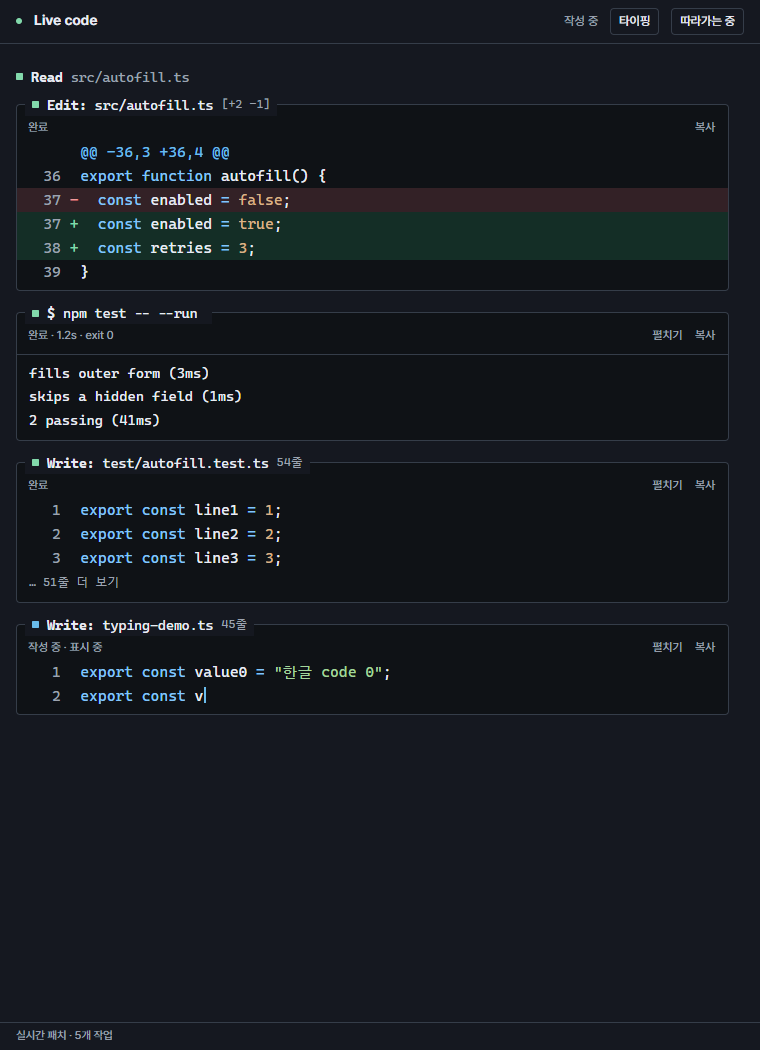
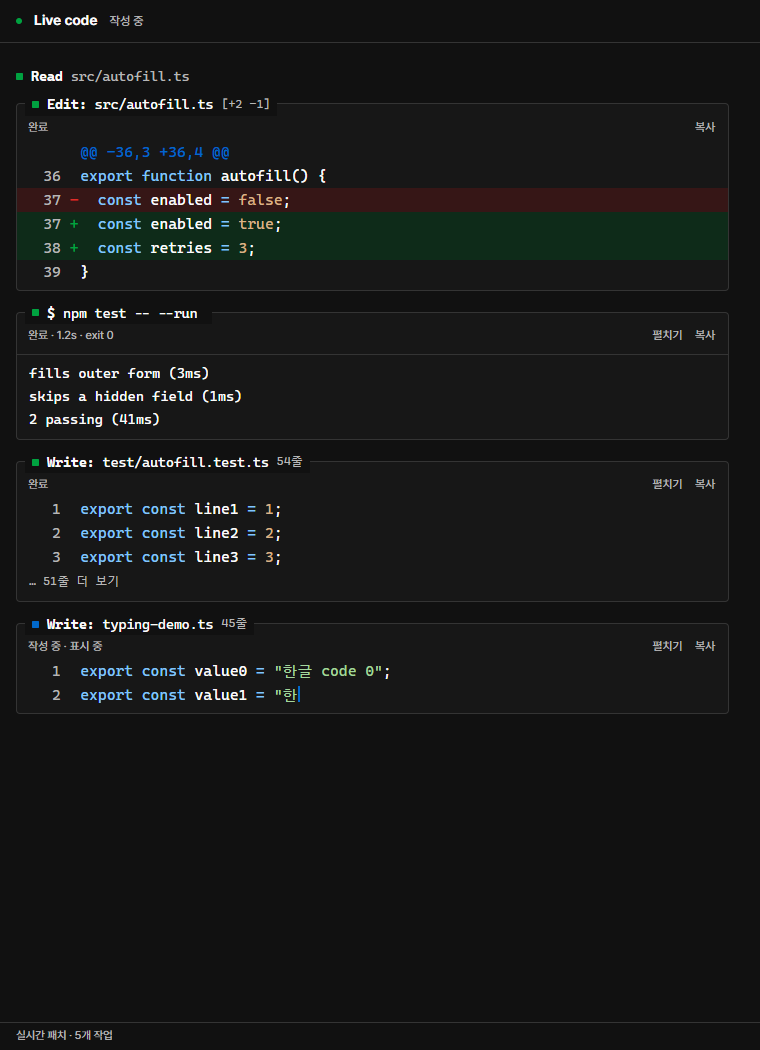
Follow Codex theme colors and simplify viewer controls

diff --git a/codex-panel/native/view.ts b/codex-panel/native/view.ts
@@ -53,22 +53,20 @@ export function mountNativeView(element:HTMLElement,feed:Pick<NativeCodeFeed,'sn
   const style=node('style');style.textContent=nativeViewCss;
   const viewer=node('section','viewer');viewer.setAttribute('aria-label','Live code');
   const bar=node('header','bar'),dot=node('span','connection-dot'),heading=node('span','heading','Live code'),phase=node('span','phase');
-  const follow=node('button','follow','따라가기');follow.title='최신 작업을 따라 스크롤';follow.type='button';follow.setAttribute('aria-pressed','true');
-  const motion=matchMedia('(prefers-reduced-motion: reduce)');
-  let typingPreference='auto';try{typingPreference=localStorage.getItem('live-code:typing')??'auto';}catch{}
-  const typingOn=()=>typingPreference==='on'||(typingPreference==='auto'&&!motion.matches);
-  const typingButton=node('button','follow typing-toggle','타이핑');typingButton.type='button';typingButton.title='수신 코드 타이핑 효과';
-  bar.append(dot,heading,phase,typingButton,follow);
+  bar.append(dot,heading,phase);
+  const jump=node('button','return-latest');jump.type='button';jump.setAttribute('aria-label','맨 아래로');jump.hidden=true;
+  const dots=node('span','jump-dots','…'),arrow=node('span','jump-arrow','↓'),tip=node('span','jump-label','맨 아래로');
+  dots.setAttribute('aria-hidden','true');arrow.setAttribute('aria-hidden','true');tip.setAttribute('aria-hidden','true');jump.append(dots,arrow,tip);
   const timeline=node('main','timeline');timeline.setAttribute('aria-label','작업 흐름');timeline.setAttribute('role','log');timeline.setAttribute('aria-live','off');
   const empty=node('p','empty','코드 작업을 기다리는 중'),history=node('div','history');
   const planWrap=node('section','plan-wrap'),planTitle=node('div','plan-title','TODO'),planCount=node('span','plan-count'),plan=node('ol','plan');
   plan.setAttribute('aria-label','작업 진행');planTitle.append(planCount);planWrap.append(planTitle,plan);planWrap.hidden=true;
   const footer=node('footer','footer'),source=node('div','source');footer.append(source);
-  timeline.append(empty,history,planWrap);viewer.append(bar,timeline,footer);shadow.append(style,viewer);
+  timeline.append(empty,history,planWrap);viewer.append(bar,timeline,footer,jump);shadow.append(style,viewer);
   let snapshot=feed.snapshot,following=true,disposed=false,scheduled=false,lastTurn:string|null=null,hydrating=true,frame:ReturnType<typeof setTimeout>|undefined;
-  const cards=new Map<string,Card>(),expanded=new Set<string>();
+  const cards=new Map<string,Card>(),expanded=new Set<string>();let cardSequence=0;
   const key=(call:NativeCall)=>call.turnId+':'+call.id;
-  function updateFollow(){follow.setAttribute('aria-pressed',String(following));follow.textContent=following?'따라가는 중':'최신으로';}
+  function updateFollow(){jump.hidden=following||snapshot.calls.length===0;}
   function makeCard(id:string):Card {
     const article=node('article','call');article.dataset.callKey=id;
     const head=node('header','call-head'),mark=node('span','state-mark'),label=node('strong','call-label'),title=node('span','call-title'),count=node('span','call-count');
@@ -76,11 +74,13 @@ export function mountNativeView(element:HTMLElement,feed:Pick<NativeCodeFeed,'sn
     const tools=node('div','call-tools'),callPhase=node('span','call-phase');
     const toggle=node('button','small-button','펼치기'),copy=node('button','small-button','복사');toggle.type=copy.type='button';toggle.setAttribute('aria-expanded','false');
     tools.append(callPhase,toggle,copy);
-    const earlier=node('div','overflow'),code=node('div','cm-content source-code'),more=node('div','overflow'),progress=node('div','progress'),output=node('pre','output');
+    const earlier=node('button','overflow earlier'),code=node('div','cm-content source-code'),more=node('button','overflow more'),progress=node('div','progress'),output=node('pre','output');
+    earlier.type=more.type='button';code.id='live-code-source-'+(++cardSequence);for(const control of [earlier,more,toggle])control.setAttribute('aria-controls',code.id);
     output.setAttribute('aria-label','실행 출력');article.append(head,tools,earlier,code,more,progress,output);
     const card:Card={element:article,heading:head,title,label,count,phase:callPhase,code,output,progress,earlier,more,expand:toggle,call:null,expanded:false,typing:new TypingReveal(),rows:[],paint:'',holdUntil:0};
-    toggle.addEventListener('click',()=>{if(expanded.has(id))expanded.delete(id);else expanded.add(id);card.call=null;render();});
-    const toggleLine=()=>{if(article.dataset.kind==='line'){if(expanded.has(id))expanded.delete(id);else expanded.add(id);card.call=null;render();}};
+    const toggleExpanded=()=>{const opening=!expanded.has(id);if(opening){expanded.add(id);following=false;}else expanded.delete(id);card.call=null;render();};
+    toggle.addEventListener('click',toggleExpanded);earlier.addEventListener('click',toggleExpanded);more.addEventListener('click',toggleExpanded);
+    const toggleLine=()=>{if(article.dataset.kind==='line')toggleExpanded();};
     head.addEventListener('click',toggleLine);head.addEventListener('keydown',event=>{if(event.key==='Enter'||event.key===' '){event.preventDefault();toggleLine();}});
     copy.addEventListener('click',()=>{if(card.call)void navigator.clipboard.writeText(card.call.input).catch(()=>{});});
     return card;
@@ -91,7 +91,7 @@ export function mountNativeView(element:HTMLElement,feed:Pick<NativeCodeFeed,'sn
   function updateCard(card:Card,call:NativeCall,full:boolean) {
     const now=performance.now(),same=unchanged(card,call,full),shown=presentCall(call,full),parser=parserFor(call);
     const code=shown.kind==='write'||shown.kind==='edit',terminal=call.status!=='writing'&&call.status!=='running';
-    const instant=!typingOn()||document.hidden||full||!code||(hydrating&&terminal)||call.status==='failed'||call.status==='interrupted';
+    const instant=document.hidden||full||!code||(hydrating&&terminal)||call.status==='failed'||call.status==='interrupted';
     if(!same){
       card.rows=presentCall(call,true).lines;
       card.typing.target(card.rows.map(row=>row.text).join('\n'),now,{instant,terminal});
@@ -116,7 +116,8 @@ export function mountNativeView(element:HTMLElement,feed:Pick<NativeCodeFeed,'sn
     card.expand.hidden=!shown.expandable&&!full;card.expand.textContent=full?'접기':'펼치기';card.expand.setAttribute('aria-expanded',String(full));
     card.earlier.hidden=shown.earlier===0;card.earlier.textContent='… 앞 '+shown.earlier+'줄';
     card.more.hidden=shown.more===0;card.more.textContent='… '+shown.more+'줄 더 보기';
-        card.code.hidden=shown.kind==='line'&&!full;
+    card.earlier.setAttribute('aria-expanded',String(full));card.more.setAttribute('aria-expanded',String(full));
+    card.code.hidden=shown.kind==='line'&&!full;
     card.code.replaceChildren(...shown.lines.map(line=>lineNode(line,parser)));
     if(caret){const last=card.code.querySelector('.code-line:last-child .code-text');last?.append(node('span','typing-caret'));}
     card.progress.hidden=!call.progress;card.progress.textContent=call.progress;
@@ -137,21 +138,18 @@ export function mountNativeView(element:HTMLElement,feed:Pick<NativeCodeFeed,'sn
     planWrap.hidden=snapshot.plan.length===0;planCount.textContent=' · '+snapshot.plan.filter(step=>step.status==='completed').length+'/'+snapshot.plan.length;
     plan.replaceChildren(...snapshot.plan.map(step=>{const li=node('li');li.dataset.status=step.status;li.append(node('span','todo-mark'),document.createTextNode(step.step));return li;}));
     element.dataset.owner=snapshot.hostId+':'+snapshot.threadId;element.dataset.callCount=String(snapshot.calls.length);element.dataset.revision=String(snapshot.revision);
-    typingButton.setAttribute('aria-pressed',String(typingOn()));
-    typingButton.title='수신 코드 타이핑 효과'+(typingPreference==='auto'&&motion.matches?' · 동작 줄이기 적용 중':'');
-    element.dataset.renderer='reference-typing-1';
+    element.dataset.renderer='app-theme-1';
     updateFollow();if(following)timeline.scrollTop=timeline.scrollHeight;
     if(snapshot.threadId)hydrating=false;
     if(frame!==undefined){clearTimeout(frame);frame=undefined;}
     if(!document.hidden&&[...cards.values()].some(card=>card.typing.pending||card.holdUntil>performance.now()))frame=setTimeout(render,33);
   }
   const dispose=feed.subscribe(value=>{snapshot=value;if(!scheduled){scheduled=true;queueMicrotask(render);}});
-  follow.addEventListener('click',()=>{following=!following;if(following)timeline.scrollTop=timeline.scrollHeight;updateFollow();});
+  jump.addEventListener('click',()=>{following=true;timeline.scrollTop=timeline.scrollHeight;updateFollow();});
   timeline.addEventListener('wheel',event=>{if(event.deltaY<0){following=false;updateFollow();}},{passive:true});
   timeline.addEventListener('scroll',()=>{following=timeline.scrollHeight-timeline.scrollTop-timeline.clientHeight<28;updateFollow();},{passive:true});
   const refreshMotion=()=>{for(const card of cards.values())card.call=null;render();};
-  typingButton.addEventListener('click',()=>{typingPreference=typingOn()?'off':'on';try{localStorage.setItem('live-code:typing',typingPreference);}catch{}refreshMotion();});
-  motion.addEventListener('change',refreshMotion);document.addEventListener('visibilitychange',refreshMotion);
+  document.addEventListener('visibilitychange',refreshMotion);
   render();
-  return()=>{disposed=true;dispose();if(frame!==undefined)clearTimeout(frame);motion.removeEventListener('change',refreshMotion);document.removeEventListener('visibilitychange',refreshMotion);cards.clear();shadow.replaceChildren();};
+  return()=>{disposed=true;dispose();if(frame!==undefined)clearTimeout(frame);document.removeEventListener('visibilitychange',refreshMotion);cards.clear();shadow.replaceChildren();};
 }

diff --git a/codex-panel/native/view-styles.ts b/codex-panel/native/view-styles.ts
@@ -3,10 +3,10 @@ export const nativeViewCss = `
 :host{--page:#f8f8f8;--card:#fff;--ink:#333841;--muted:#626b77;--rule:#c9ced5;--accent:#326f96;--green:#287452;--red:#b34449;--add-bg:#e5f3e9;--del-bg:#f9e8e8;--mono:"Cascadia Code","D2Coding","Cascadia Mono",ui-monospace,monospace;--sans:"Pretendard","Segoe UI",system-ui,sans-serif;display:flex;width:100%;height:100%;min-height:0;color:var(--ink);font:14px/1.55 var(--sans);text-rendering:optimizeLegibility;-webkit-font-smoothing:antialiased}
 @media(prefers-color-scheme:dark){:host{--page:#151820;--card:#0f1216;--ink:#e8ecf4;--muted:#9ca3b0;--rule:#353d49;--accent:#6abcec;--green:#82d9ab;--red:#f19b9b;--add-bg:#142e26;--del-bg:#332126}}
 *{box-sizing:border-box}button{font:inherit;color:inherit;cursor:pointer}button:focus-visible{outline:2px solid var(--accent);outline-offset:2px}
-.viewer{display:flex;flex-direction:column;width:100%;height:100%;min-height:0;background:var(--page)}
+.viewer{position:relative;display:flex;flex-direction:column;width:100%;height:100%;min-height:0;background:var(--page)}
 .bar{display:flex;gap:12px;align-items:center;min-height:43px;flex-shrink:0;padding:8px 16px;border-bottom:1px solid var(--rule)}
-.heading{font-size:14px;font-weight:600;letter-spacing:.01em}.connection-dot{width:6px;height:6px;border-radius:50%;background:var(--green);flex-shrink:0}.phase{font-size:12px;color:var(--muted)}.bar .phase{margin-left:auto}
-.follow{border:1px solid var(--rule);border-radius:4px;padding:3px 8px;background:transparent;font-size:12px;color:var(--muted);white-space:nowrap}.follow[aria-pressed=true]{color:var(--ink)}
+.heading{font-size:14px;font-weight:600;letter-spacing:.01em}.connection-dot{width:6px;height:6px;border-radius:50%;background:var(--green);flex-shrink:0}.phase{font-size:12px;color:var(--muted)}.bar .phase{margin-left:0}
+.return-latest{position:absolute;bottom:42px;left:50%;transform:translateX(-50%);z-index:3;width:36px;height:26px;border:1px solid var(--rule);border-radius:14px;background:var(--card);color:var(--muted);box-shadow:0 2px 7px #0002;display:grid;place-items:center;font:20px/1 var(--sans)}.return-latest:hover,.return-latest:focus-visible{color:var(--ink)}.jump-arrow{display:none}.return-latest:is(:hover,:focus-visible) .jump-dots{display:none}.return-latest:is(:hover,:focus-visible) .jump-arrow{display:inline}.jump-label{position:absolute;bottom:calc(100% + 7px);left:50%;transform:translateX(-50%);border:1px solid var(--rule);border-radius:5px;background:var(--card);padding:4px 8px;white-space:nowrap;font:12px/1.4 var(--sans);opacity:0;pointer-events:none}.return-latest:is(:hover,:focus-visible) .jump-label{opacity:1}
 .timeline{flex:1;min-height:0;overflow:auto;padding:15px 16px 26px;scrollbar-gutter:stable;overscroll-behavior:contain}
 .empty{padding:30px 0;color:var(--muted);font-size:14px}
 .call{margin:16px 0 21px;border:1px solid var(--rule);border-radius:4px;background:var(--card);padding:0 0 6px}
@@ -27,7 +27,7 @@ export const nativeViewCss = `
 .typing-caret{display:inline-block;width:2px;height:1.1em;margin-left:1px;vertical-align:-.15em;background:var(--accent);animation:caret-blink .85s step-end infinite}@keyframes caret-blink{50%{opacity:0}}
 .code-text{margin:0;white-space:pre-wrap;overflow-wrap:anywhere;padding-right:10px;min-width:0;font:inherit;tab-size:2}
 .call[data-kind=shell] .code-line{grid-template-columns:2ch minmax(0,1fr)}.call[data-kind=shell] .line-number{display:none}.call[data-kind=shell] .line-sign{padding-left:9px;color:var(--accent)}
-.overflow{margin:2px 12px;color:var(--muted);font:12px/1.8 var(--mono)}
+.overflow{display:block;margin:2px 12px;padding:0;border:0;background:transparent;text-align:left;color:var(--muted);font:12px/1.8 var(--mono)}.overflow:hover{color:var(--ink);text-decoration:underline}
 .output{white-space:pre-wrap;overflow-wrap:anywhere;margin:6px 0 0;padding:7px 12px 2px;border-top:1px solid var(--rule);font:14px/1.65 var(--mono);color:var(--ink);max-width:100%}
 .progress{padding:3px 12px;color:var(--muted);font:12px/1.6 var(--sans)}
 .call[data-kind=line]{margin:7px 0;border:0;background:transparent;padding:0}.call[data-kind=line] .call-head{margin:0;padding:0;background:none;max-width:100%;font-size:13.5px;font-weight:400}.call[data-kind=line] .call-label{font-weight:650}.call[data-kind=line] .call-title{color:var(--muted)}
@@ -36,7 +36,7 @@ export const nativeViewCss = `
 .plan{list-style:none;padding:0;margin:7px 0 0 3px}.plan li{position:relative;padding:2px 0 2px 26px;border-left:1px solid var(--accent);min-height:25px}.plan li:last-child{border-left-color:transparent}.plan li:before{content:"";position:absolute;left:-1px;top:0;height:14px;width:13px;border-left:1px solid var(--accent);border-bottom:1px solid var(--accent)}
 .todo-mark{display:inline-block;width:7px;height:7px;border:1px solid var(--muted);margin-right:9px;vertical-align:1px}.plan li[data-status=completed]{color:var(--muted)}.plan li[data-status=completed] .todo-mark{border-color:var(--green);background:var(--green)}.plan li[data-status=inProgress]{font-weight:650}.plan li[data-status=inProgress] .todo-mark{border-color:var(--accent);background:var(--accent)}
 .footer{flex-shrink:0;min-height:28px;padding:5px 16px;border-top:1px solid var(--rule);color:var(--muted);font:11px/1.5 var(--sans)}.source{overflow:hidden;white-space:nowrap;text-overflow:ellipsis}
-.tok-keyword,.tok-operator{color:#3978a9}.tok-string,.tok-string2{color:#45804e}.tok-number,.tok-bool,.tok-atom{color:#936232}.tok-comment{color:#7d8790;font-style:italic}.tok-typeName,.tok-className{color:#8a5b86}.tok-variableName,.tok-propertyName{color:inherit}
-@media(prefers-color-scheme:dark){.tok-keyword,.tok-operator{color:#83c5fa}.tok-string,.tok-string2{color:#a3d59c}.tok-number,.tok-bool,.tok-atom{color:#d9b387}.tok-comment{color:#939cac}.tok-typeName,.tok-className{color:#d1afe3}}
+.tok-keyword,.tok-operator{color:var(--syntax-keyword,#3978a9)}.tok-string,.tok-string2{color:var(--syntax-string,#45804e)}.tok-number,.tok-bool,.tok-atom{color:var(--syntax-number,#936232)}.tok-comment{color:var(--syntax-comment,#7d8790);font-style:italic}.tok-typeName,.tok-className{color:var(--syntax-type,#8a5b86)}.tok-variableName,.tok-propertyName{color:inherit}
+@media(prefers-color-scheme:dark){.tok-keyword,.tok-operator{color:var(--syntax-keyword,#83c5fa)}.tok-string,.tok-string2{color:var(--syntax-string,#a3d59c)}.tok-number,.tok-bool,.tok-atom{color:var(--syntax-number,#d9b387)}.tok-comment{color:var(--syntax-comment,#939cac)}.tok-typeName,.tok-className{color:var(--syntax-type,#d1afe3)}}
 [hidden]{display:none!important}@media(max-width:480px){.bar{padding:8px 11px;gap:8px}.timeline{padding:14px 10px 22px}.code-line{font-size:14px;grid-template-columns:5ch 1.2ch minmax(0,1fr)}.call-head{font-size:13px}.call-count{font-size:11px}.footer{padding-left:11px}}
 `;

diff --git a/codex-panel/automatic/service.ts b/codex-panel/automatic/service.ts
@@ -2,12 +2,13 @@ import http from 'node:http';
 import {randomBytes, timingSafeEqual} from 'node:crypto';
 import {NativeCodeFeed} from '../native/feed.js';
 import type {NativeSnapshot} from '../native/feed.js';
+import type {AppThemeSettings} from '../../src/shared/app-theme.js';
 const id = (value: unknown): value is string => typeof value === 'string' && /^[a-zA-Z0-9_-]{1,160}$/.test(value);
 const same = (a: string, b: string) => {const left=Buffer.from(a),right=Buffer.from(b);return left.length===right.length && timingSafeEqual(left,right);};
-const html = '<!doctype html><html lang="ko"><meta charset="utf-8"><meta name="viewport" content="width=device-width,initial-scale=1"><title>Live code</title><style>html,body{margin:0;height:100%;color-scheme:light dark;background:light-dark(#fff,#171717);font:12px system-ui}#viewer{height:100%;display:flex}#connection{position:fixed;bottom:4px;right:8px;z-index:2;background:light-dark(#fff,#171717);color:#888}</style><div id="viewer"></div><div id="connection">연결 중</div><script src="/viewer.js"></script></html>';
+export const viewerDocument = '<!doctype html><html lang="ko"><meta charset="utf-8"><meta name="viewport" content="width=device-width,initial-scale=1"><title>Live code</title><style>html,body{margin:0;height:100%;color-scheme:light dark;background:var(--viewer-background,light-dark(#fff,#171717));font:12px system-ui}#viewer{height:100%;display:flex}#connection{position:fixed;bottom:4px;right:8px;z-index:2;background:var(--viewer-background,light-dark(#fff,#171717));color:#888}</style><div id="viewer"></div><div id="connection">연결 중</div><script src="/viewer.js"></script></html>';
 type Entry = {key:string;path:string;feed:NativeCodeFeed;clients:Set<http.ServerResponse>;touched:number};
 /** Read-only loopback viewer. Every thread has its own non-enumerable capability. */
-export async function startViewerService(options: {javascript:string|(()=>Promise<string>); open:(owner:{threadId:string;url:string;turnId:string|null})=>Promise<boolean>; maxThreads?:number}) {
+export async function startViewerService(options: {javascript:string|(()=>Promise<string>); open:(owner:{threadId:string;url:string;turnId:string|null})=>Promise<boolean>; maxThreads?:number;theme?:()=>Promise<AppThemeSettings>}) {
   const entries = new Map<string,Entry>(), paths = new Map<string,Entry>();
   const hookPath='/hook/'+randomBytes(32).toString('hex');
   const hooks:{threadId:string;turnId:string;callId:string;phase:string}[]=[];
@@ -30,6 +31,7 @@ export async function startViewerService(options: {javascript:string|(()=>Promis
       }catch{res.writeHead(400);res.end();return;}
     }
     if(req.method!=='GET'){res.writeHead(405);res.end();return;}
+    if(url.pathname==='/theme'){res.setHeader('Content-Type','application/json; charset=utf-8');res.end(JSON.stringify(await options.theme?.()??{mode:'system'}));return;}
     if(url.pathname==='/viewer.js'){
       try{const javascript=typeof options.javascript==='function'?await options.javascript():options.javascript;res.setHeader('Content-Type','text/javascript; charset=utf-8');res.end(javascript);}
       catch{res.writeHead(503);res.end('Viewer asset unavailable');}return;
@@ -47,7 +49,7 @@ export async function startViewerService(options: {javascript:string|(()=>Promis
     }
     res.setHeader('Content-Type','text/html; charset=utf-8');
     res.setHeader('Content-Security-Policy',"default-src 'none'; script-src 'self'; connect-src 'self'; style-src 'unsafe-inline'; base-uri 'none'; frame-ancestors 'self'");
-    res.end(html);
+    res.end(viewerDocument);
   });
   server.on('connection',socket=>{connections.add(socket);socket.on('close',()=>connections.delete(socket));});
   await new Promise<void>((resolve,reject)=>{server.once('error',reject);server.listen(0,'127.0.0.1',()=>{server.removeListener('error',reject);resolve();});});

diff --git a/src/shared/app-theme.ts b/src/shared/app-theme.ts
@@ -1,0 +1,32 @@
+export type ThemePalette={surface:string;ink:string;accent:string;added:string;removed:string;contrast:number};
+export type AppThemeSettings={mode:'system'|'light'|'dark';light?:Partial<ThemePalette>;dark?:Partial<ThemePalette>};
+export type ResolvedAppTheme={mode:'light'|'dark';page:string;card:string;ink:string;muted:string;border:string;accent:string;added:string;removed:string;addBackground:string;removeBackground:string};
+const defaults:Record<'light'|'dark',ThemePalette>={
+ light:{surface:'#ffffff',ink:'#1a1c1f',accent:'#339cff',added:'#00a240',removed:'#ba2623',contrast:45},
+ dark:{surface:'#181818',ink:'#ffffff',accent:'#339cff',added:'#40c977',removed:'#fa423e',contrast:60},
+};
+const object=(v:unknown):Record<string,unknown>=>v&&typeof v==='object'&&!Array.isArray(v)?v as Record<string,unknown>:{};
+const color=(v:unknown):string|undefined=>typeof v==='string'&&/^#[0-9a-f]{6}$/i.test(v)?v.toLowerCase():undefined;
+function palette(value:unknown):Partial<ThemePalette>{
+ const v=object(value),semantic=object(v.semanticColors),result:Partial<ThemePalette>={};
+ for(const key of ['surface','ink','accent'] as const){const c=color(v[key]);if(c)result[key]=c;}
+ const added=color(semantic.diffAdded),removed=color(semantic.diffRemoved);if(added)result.added=added;if(removed)result.removed=removed;
+ if(typeof v.contrast==='number'&&Number.isFinite(v.contrast))result.contrast=Math.max(0,Math.min(100,v.contrast));
+ return result;
+}
+/** Project only desktop appearance fields; never return the raw configuration. */
+export function selectAppTheme(value:unknown):AppThemeSettings{
+ const d=object(object(value).desktop);
+ return {mode:d.appearanceTheme==='dark'||d.appearanceTheme==='light'?d.appearanceTheme:'system',light:palette(d.appearanceLightChromeTheme),dark:palette(d.appearanceDarkChromeTheme)};
+}
+function mix(a:string,b:string,weight:number):string{
+ return '#'+[1,3,5].map(i=>Math.round(parseInt(a.slice(i,i+2),16)*(1-weight)+parseInt(b.slice(i,i+2),16)*weight).toString(16).padStart(2,'0')).join('');
+}
+export function resolveAppTheme(settings:Partial<AppThemeSettings>,systemDark:boolean):ResolvedAppTheme{
+ const mode=settings.mode==='light'||settings.mode==='dark'?settings.mode:systemDark?'dark':'light';
+ const p={...defaults[mode]},candidate=settings[mode]??{};
+ for(const key of ['surface','ink','accent','added','removed'] as const){const valid=color(candidate[key]);if(valid)p[key]=valid;}
+ if(typeof candidate.contrast==='number'&&Number.isFinite(candidate.contrast))p.contrast=Math.max(0,Math.min(100,candidate.contrast));
+ const contrast=p.contrast/100;
+ return {mode,page:p.surface,card:mix(p.surface,p.ink,mode==='dark'?.025:.015),ink:p.ink,muted:mix(p.surface,p.ink,.65+contrast*.1),border:mix(p.surface,p.ink,.12+contrast*.06),accent:p.accent,added:p.added,removed:p.removed,addBackground:mix(p.surface,p.added,mode==='dark'?.18:.1),removeBackground:mix(p.surface,p.removed,mode==='dark'?.18:.1)};
+}

diff --git a/codex-panel/automatic/theme.test.ts b/codex-panel/automatic/theme.test.ts
@@ -1,0 +1,40 @@
+import {describe,it,expect} from 'vitest';
+import {createThemeReader} from './theme-config.mjs';
+import {resolveAppTheme} from '../../src/shared/app-theme.js';
+import {startViewerService} from './service.js';
+const config='api_key = "never expose"\n[desktop]\nappearanceTheme = "dark"\n[desktop.appearanceDarkChromeTheme]\nsurface = "#111111"\nink = "#fcfcfc"\naccent = "#0169cc"\ncontrast = 50\n[desktop.appearanceDarkChromeTheme.semanticColors]\ndiffAdded = "#00a240"\ndiffRemoved = "#e02e2a"';
+describe('Codex app theme source',()=>{
+ it('reads only appearance colors and follows subsequent config changes',async()=>{
+  let source=config;const read=createThemeReader({read:async()=>source});
+  const first=await read();expect(first.mode).toBe('dark');
+  expect(resolveAppTheme(first,false)).toMatchObject({mode:'dark',page:'#111111',ink:'#fcfcfc',accent:'#0169cc',added:'#00a240',removed:'#e02e2a'});
+  expect(JSON.stringify(first)).not.toContain('never expose');
+  source=config.replace('#111111','#223344');expect(resolveAppTheme(await read(),false).page).toBe('#223344');
+  source='[incomplete';expect(resolveAppTheme(await read(),false).page).toBe('#223344');
+ });
+ it('respects app light/dark overrides rather than following the OS unconditionally',()=>{
+  expect(resolveAppTheme({mode:'light'},true).mode).toBe('light');
+  expect(resolveAppTheme({mode:'dark'},false).mode).toBe('dark');
+  expect(resolveAppTheme({mode:'system'},true).mode).toBe('dark');
+  expect(resolveAppTheme({mode:'system'},false).mode).toBe('light');
+ });
+ it('rejects CSS payloads and uses a bounded neutral fallback',async()=>{
+  const read=createThemeReader({read:async()=>config.replace('#111111','red; background:url(https://evil.example)')});
+  expect(resolveAppTheme(await read(),true).page).toBe('#181818');
+  expect(JSON.stringify(await read())).not.toContain('evil.example');
+  expect(resolveAppTheme({mode:'dark',dark:{surface:'url(https://evil.example)'}},true).page).toBe('#181818');
+ });
+ it('serves updated color-only settings through the same origin',async()=>{
+  let source=config;const theme=createThemeReader({read:async()=>source});
+  const service=await startViewerService({javascript:'',open:async()=>true,theme});
+  try{
+   const url='http://127.0.0.1:'+service.port+'/theme';
+   const first=await(await fetch(url)).json();
+   expect(resolveAppTheme(first,false).page).toBe('#111111');
+   expect(JSON.stringify(first)).not.toContain('never expose');
+   source=config.replace('#111111','#223344');const next=await(await fetch(url)).json();
+   expect(resolveAppTheme(next,false).page).toBe('#223344');
+   expect((await fetch(url,{headers:{Origin:'http://evil.example'}})).status).toBe(403);
+  }finally{await service.close();}
+ });
+});

diff --git a/codex-panel/native/theme.ts b/codex-panel/native/theme.ts
@@ -1,0 +1,23 @@
+import {resolveAppTheme,type AppThemeSettings} from '../../src/shared/app-theme.js';
+/** Follow the app's color settings while keeping the code renderer and its feed independent. */
+export function followAppTheme(element:HTMLElement):()=>void{
+ const media=matchMedia('(prefers-color-scheme: dark)');let settings:Partial<AppThemeSettings>={},disposed=false,legacy=element.dataset.themeSync==='next-launch',timer:ReturnType<typeof setTimeout>|undefined,request:AbortController|undefined;
+ try{settings=JSON.parse(element.dataset.appThemeSettings??'{}') as AppThemeSettings;}catch{}
+ function apply(){
+  const p=resolveAppTheme(settings,media.matches),vars:Record<string,string>={'--page':p.page,'--card':p.card,'--ink':p.ink,'--muted':p.muted,'--rule':p.border,'--accent':p.accent,'--green':p.added,'--red':p.removed,'--add-bg':p.addBackground,'--del-bg':p.removeBackground};
+  vars['--syntax-keyword']=p.mode==='dark'?'#83c5fa':'#3978a9';vars['--syntax-string']=p.mode==='dark'?'#a3d59c':'#45804e';vars['--syntax-number']=p.mode==='dark'?'#d9b387':'#936232';vars['--syntax-comment']=p.muted;vars['--syntax-type']=p.mode==='dark'?'#d1afe3':'#8a5b86';
+  for(const [key,value]of Object.entries(vars))element.style.setProperty(key,value);
+  element.dataset.appTheme=p.mode;element.style.colorScheme=p.mode;
+  document.documentElement.style.colorScheme=p.mode;document.documentElement.style.setProperty('--viewer-background',p.page);document.documentElement.style.backgroundColor=p.page;document.body.style.backgroundColor=p.page;
+ }
+ async function refresh(){
+  if(timer!==undefined){clearTimeout(timer);timer=undefined;}
+  if(disposed||legacy||document.hidden)return;
+  request?.abort();const current=new AbortController();request=current;
+  try{const response=await fetch('/theme',{cache:'no-store',signal:current.signal});if(response.ok){settings=await response.json() as AppThemeSettings;element.dataset.themeSync='live';if(!disposed)apply();}else if(response.status===404){legacy=true;element.dataset.themeSync='next-launch';}}catch{/* Theme availability must not interrupt code display. */}
+  finally{if(request===current)request=undefined;if(!disposed&&!legacy&&!document.hidden)timer=setTimeout(refresh,1500);}
+ }
+ const visible=()=>{if(document.hidden){request?.abort();if(timer!==undefined)clearTimeout(timer);}else void refresh();};
+ media.addEventListener('change',apply);document.addEventListener('visibilitychange',visible);apply();void refresh();
+ return()=>{disposed=true;request?.abort();if(timer!==undefined)clearTimeout(timer);media.removeEventListener('change',apply);document.removeEventListener('visibilitychange',visible);};
+}

diff --git a/codex-panel/automatic/browser.ts b/codex-panel/automatic/browser.ts
@@ -1,3 +1,4 @@
+import {followAppTheme} from '../native/theme.js';
 import { mountNativeView } from '../native/view.js';
 import type { NativeSnapshot } from '../native/feed.js';
 const storageKey='live-viewer:'+location.pathname;
@@ -8,9 +9,10 @@ let snapshot: NativeSnapshot = {hostId:'local',threadId:'',turnId:null,calls:[],
 const listeners = new Set<(value: NativeSnapshot) => void>();
 const status = document.querySelector<HTMLElement>('#connection')!;
 const feed = { get snapshot() { return snapshot; }, subscribe(fn: (value: NativeSnapshot) => void) { listeners.add(fn); fn(snapshot); return () => { listeners.delete(fn); }; } };
+const disposeTheme=followAppTheme(document.querySelector<HTMLElement>('#viewer')!);
 const dispose = mountNativeView(document.querySelector<HTMLElement>('#viewer')!, feed);
 const events = new EventSource(location.pathname + '/events?key=' + encodeURIComponent(token));
 events.onopen = () => { status.hidden = true; };
 events.onmessage = event => { try { const value = JSON.parse(event.data) as NativeSnapshot; if (!value.threadId || (snapshot.threadId && value.threadId !== snapshot.threadId)) return; snapshot = value; for (const listener of listeners) listener(snapshot); } catch { status.textContent = '스트림을 읽을 수 없습니다.'; status.hidden = false; } };
 events.onerror = () => { status.textContent = '연결이 끊겼습니다. 다시 연결하는 중'; status.hidden = false; };
-window.addEventListener('pagehide', () => { events.close(); dispose(); });
+window.addEventListener('pagehide', () => { events.close(); disposeTheme(); dispose(); });

diff --git a/README.md b/README.md
@@ -11,8 +11,10 @@ The viewer follows the current local Codex execution and opens in its owning cha
 - Chronological Write, Edit and shell cards; compact Read/Grep/Glob rows.
 - Syntax colors, diff additions/deletions and available source line numbers.
 - A typing effect over received code, with a caret and bounded catch-up.
-- Follow scrolling, expandable previews, copy and a TODO tree.
-- Cascadia Code / D2Coding fallbacks; light, dark and narrow layouts.
+- Clickable more-lines previews, copy and a TODO tree.
+- A bottom-center return button appears when you scroll into history; hover to see “맨 아래로”.
+- Typing is enabled by default, with an uncluttered header.
+- Cascadia Code / D2Coding fallbacks; narrow layouts and colors following the Codex app's appearance settings.
 - Automatic connection from the ordinary Codex icon after one-time setup.
 - Installed Codex components resolved again at launch; application binaries stay untouched.
 
@@ -36,13 +38,15 @@ npm run verify
 npm run build
 ```
 
-1. Open `dist/codex-live-viewer-0.5.1` and run `Enable-Auto.cmd`.
+1. Open `dist/codex-live-viewer-0.5.3` and run `Enable-Auto.cmd`.
 2. Close Codex normally when your work is saved, then start it using your usual icon.
 3. Ask Codex to write or edit a file. Live code opens automatically in the owning chat.
 
 Enable-Auto copies the verified bundle into the current user's AppData and registers `CODEX_CLI_PATH`. It preserves the previous value and rejects unrelated overrides. It never stops the running app. To restore the prior setting, run `Disable-Auto.cmd` from the installed bundle.
 
-The typing button saves an explicit on/off preference. Without a preference, the viewer follows system reduced motion. Clicking typing on enables the requested effect even when reduced motion is active.
+Typing is applied automatically to newly arriving code. There is no typing or follow toggle in the header. Scroll upward to inspect history, then use the bottom-center ellipsis button to return to the latest work.
+
+The viewer reads only the desktop appearance fields in the active Codex config.toml. App light/dark overrides take precedence over OS mode; system mode follows the OS. Background, foreground, accent and diff colors refresh while the viewer is visible. Configuration is read-only and unrelated settings are never sent to the browser.
 
 Build output folders must be new. To keep an existing build and create another:
 
@@ -57,7 +61,7 @@ npm run verify
 npm run verify:ui
 ```
 
-The UI check starts an owned, hidden Electron fixture with local HTTP/SSE events. It checks layout, code/diff rendering, typing, completion, toggles and narrow panels. Artifacts go into ignored `artifacts/`. It does not operate the signed-in Codex app or prove a service-model E2E run.
+The UI check starts an owned, hidden Electron fixture with local HTTP/SSE events. It checks layout, code/diff rendering, typing, completion, clickable expansion, the return control, theme changes and narrow panels. Artifacts go into ignored `artifacts/`. It does not operate the signed-in Codex app or prove a service-model E2E run.
 
 Production dependency license texts are collected from the lockfile's installed packages during build and included with the bundle. The optional generated hook plugin validates real executor ownership metadata and does not change tool input or permissions. Automatic display also works without installing that hook plugin.
 
@@ -72,5 +76,7 @@ Completed history is displayed immediately. Newly arriving code is revealed prog
 ## Credits
 
 The tool-card presentation and palette draw from [claude-code-live-viewer](https://github.com/moneycode11101-svg/claude-code-live-viewer), which also credits [oh-my-pi](https://github.com/can1357/oh-my-pi). Full notices are retained in [reference-NOTICE.txt](codex-panel/native/reference-NOTICE.txt). The shared redaction helper originates in Chat On Steroids under the retained MIT license.
+
+Older running observers can receive a UI-only update using a color snapshot. Continuous theme synchronization requires the updated observer, activated at the next normal app launch. The viewer does not restart the app.
 
 This is an independent local integration.

diff --git a/codex-panel/automatic/README.md b/codex-panel/automatic/README.md
@@ -1,10 +1,10 @@
-# Codex Live Viewer 0.5.1
+# Codex Live Viewer 0.5.3
 
 이 패키지는 기존 Codex 실행 스트림을 관찰하여 해당 대화의 내장 브라우저 패널에 코드·diff·명령 진행 상황을 표시합니다. 별도 모델 실행이나 앱 바이너리 패치를 하지 않습니다.
 
 Enable-Auto.cmd: 사용자 AppData에 검증된 번들을 복사하고 CODEX_CLI_PATH를 등록합니다. 이후 Codex를 정상 종료한 뒤 기존 아이콘으로 실행하면 자동 연결됩니다. 실행 중인 앱을 강제 종료하지 않습니다. Disable-Auto.cmd는 직전 사용자 설정을 복구합니다.
 
-타이핑 버튼으로 수신 코드의 표시 효과를 조절합니다. 타이핑은 표시 애니메이션이며 모델 토큰 수신 속도를 뜻하지 않습니다. 명령 본문은 $ 표시와 코드의 2열 배치로 출력합니다.
+타이핑은 새 코드에 기본 적용되며 상단 토글은 없습니다. 줄 더 보기는 실제 코드를 펼치고, 과거 내역을 볼 때 하단 중앙의 … 버튼으로 최신 작업에 복귀합니다. 색상은 Codex의 데스크톱 테마 설정을 읽기 전용으로 따라갑니다. 타이핑은 표시 애니메이션이며 모델 토큰 수신 속도를 뜻하지 않습니다. 명령 본문은 $ 표시와 코드의 2열 배치로 출력합니다.
 
 지원 범위: Windows의 로컬 Codex 실행. 업데이트 후 CLI 연결 설정과 기본 open_in_codex 도구 계약이 유지되어야 합니다. 원격·서비스 전용 실행 및 모든 미래 버전과의 호환을 보장하지 않습니다.
 

diff --git a/CHANGELOG.md b/CHANGELOG.md
@@ -1,5 +1,12 @@
 # Changelog
 
+## 0.5.3
+
+- Follow Codex desktop theme colors and light/dark overrides, including live settings changes.
+- Make more-lines labels expand actual code.
+- Apply typing by default and remove header controls.
+- Add the bottom-center ellipsis return control for history browsing.
+
 ## 0.5.1
 
 - Extract the current automatic viewer into a standalone source repository.
